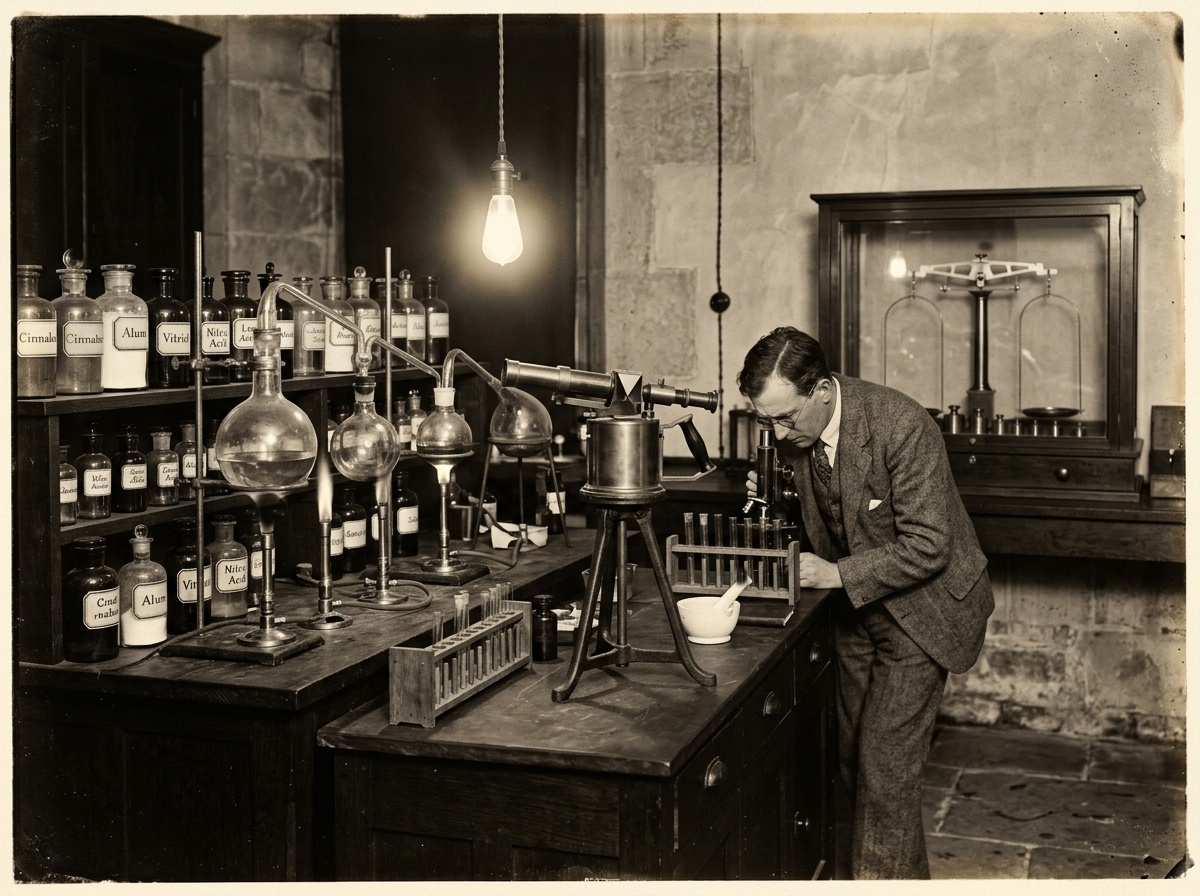
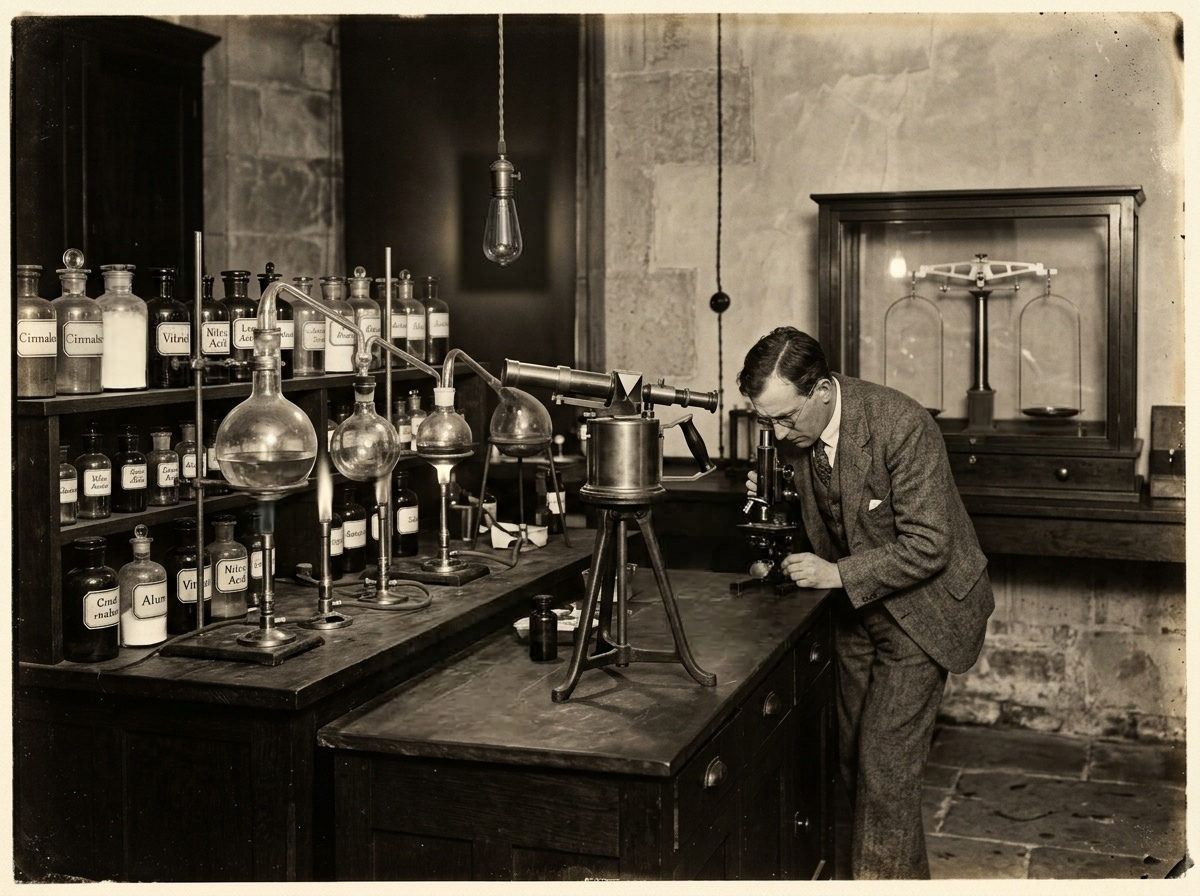
feat(level3): AAA physical sabotage in the Archeometry Laboratory, full lore integration

diff --git a/src/data/levelRegistry.ts b/src/data/levelRegistry.ts
@@ -161,7 +161,7 @@ export function generateAll120Levels(): Level[] {
     const imageA = isLevelTwo
       ? '/stage2_crypt_A.jpg?v=8'
       : isLevelThree
-      ? '/levels/stage1_lvl3_A.jpg'
+      ? '/levels/stage1_lvl3_A.jpg?v=2'
       : isLevelFour
       ? '/levels/stage1_lvl4_A.jpg'
       : isLevelFive
@@ -444,7 +444,7 @@ export function generateAll120Levels(): Level[] {
     const imageB = isLevelTwo
       ? '/stage2_crypt_B.jpg?v=8'
       : isLevelThree
-      ? '/levels/stage1_lvl3_B.jpg'
+      ? '/levels/stage1_lvl3_B.jpg?v=2'
       : isLevelFour
       ? '/levels/stage1_lvl4_B.jpg'
       : isLevelFive
@@ -843,16 +843,60 @@ export function generateAll120Levels(): Level[] {
       ];
     } else if (isLevelThree) {
       diffsForLevel = [
-        { id: `lvl${id}_d1`, x: 43.67, y: 19.64, radius: 4.0, name: "La Chiavetta d'Accensione della Lampada", loreClue: "La chiavetta a farfalla in ottone per regolare il gas e la corrente è stata rimossa dal portalampada sospeso." },
-        { id: `lvl${id}_d2`, x: 82.08, y: 27.46, radius: 4.0, name: "La Vite a Farfalla della Bilancia di Precisione", loreClue: "La vite micrometrica che equilibra il giogo d'argento della bilancia chimica è scomparsa dall'apice della teca." },
-        { id: `lvl${id}_d3`, x: 6.75, y: 28.12, radius: 4.0, name: "Il Terminale Sferico della Boccetta di Reattivo", loreClue: "Il pomo sferico di vetro del tappo smerigliato del flacone di cinabro alchemico è stato asportato." },
-        { id: `lvl${id}_d4`, x: 46.67, y: 44.42, radius: 4.0, name: "La Vite di Messa a Fuoco dello Spettroscopio", loreClue: "La rotella d'ottone zigrinata per la regolazione del prisma ottico dello spettroscopio da banco non è più al suo posto." },
-        { id: `lvl${id}_d5`, x: 22.33, y: 56.70, radius: 4.5, name: "La Fiamma del Becco Bunsen sotto l'Alambicco", loreClue: "Il rubinetto del gas è stato chiuso: la fiamma ossidrica sotto il matraccio di distillazione si è spenta improvvisamente." },
-        { id: `lvl${id}_d6`, x: 81.17, y: 52.57, radius: 3.5, name: "Il Pomello in Ottone del Cassetto della Teca", loreClue: "Uno dei due tiranti sferici in ottone del cassetto per i pesi milligrammetrici della bilancia è stato svitato." },
-        { id: `lvl${id}_d7`, x: 72.67, y: 66.29, radius: 3.5, name: "Il Bottone in Corno sul Polsino in Tweed", loreClue: "Il bottone sartoriale in corno bruno sulla manica della giacca del ricercatore si è staccato durante l'analisi." },
-        { id: `lvl${id}_d8`, x: 61.67, y: 64.29, radius: 4.0, name: "L'Impugnatura del Pestello nel Mortaio", loreClue: "Il collare sagomato in porcellana dell'impugnatura del pestello da polverizzazione minerale è stato limato via." },
-        { id: `lvl${id}_d9`, x: 34.17, y: 76.56, radius: 4.0, name: "L'Incastro a Mortasa del Portaprovette", loreClue: "La mortasa a intaglio nel montante di massello di quercia del rastrello portaprovette appare piallata e priva di foro." },
-        { id: `lvl${id}_d10`, x: 12.83, y: 74.67, radius: 3.5, name: "L'Attrezzo Metallico sul Ripiano Inferiore", loreClue: "La spatola di platino per il campionamento delle polveri di cinabro è stata rimossa dal ripiano dello scaffale dei reattivi." },
+        {
+          id: `lvl${id}_d1`,
+          x: 41.89,
+          y: 25.47,
+          radius: 9.5,
+          clueType: 'sabotage',
+          name: "La Lampadina a Filamento dal Soffitto",
+          loreClue: "La lampada a sospensione sopra il banco di lavoro è stata spenta per impedire l'osservazione delle luminescenze chimiche sulla pergamena."
+        },
+        {
+          id: `lvl${id}_d2`,
+          x: 60.77,
+          y: 64.90,
+          radius: 11.5,
+          clueType: 'stolen_relic',
+          name: "Il Mortaio e i Campioni dell'Archeometra",
+          loreClue: "Il mortaio in porcellana bianca e le provette dei campioni di cinabro peruviano sono stati asportati dal banco sotto gli occhi dello studioso."
+        },
+        {
+          id: `lvl${id}_d3`,
+          x: 38.42,
+          y: 73.66,
+          radius: 10.0,
+          clueType: 'stolen_relic',
+          name: "Il Grande Rastrello Portaprovette",
+          loreClue: "Il massiccio rastrello in quercia con le provette graduate dei reagenti alchemici è stato trafugato dal banco in primo piano per distruggere le prove."
+        },
+        {
+          id: `lvl${id}_d4`,
+          x: 82.73,
+          y: 47.20,
+          radius: 9.0,
+          clueType: 'stolen_relic',
+          name: "La Serie di Pesi Milligrammetrici d'Ottone",
+          loreClue: "La serie di cilindri micrometrici in ottone della bilancia analitica è stata sottratta: serviva a dosare le polveri alchemiche con precisione assoluta."
+        },
+        {
+          id: `lvl${id}_d5`,
+          x: 22.19,
+          y: 56.46,
+          radius: 7.5,
+          clueType: 'sabotage',
+          name: "La Fiamma del Becco Bunsen sotto il Matraccio",
+          loreClue: "Il rubinetto del gas del becco Bunsen è stato chiuso con violenza: la fiamma che riscaldava il solvente sotto il matraccio è stata spenta."
+        },
+        {
+          id: `lvl${id}_d6`,
+          x: 12.56,
+          y: 36.30,
+          radius: 9.0,
+          clueType: 'stolen_relic',
+          name: "Il Flacone di Reagente 'Alum' sullo Scaffale",
+          loreClue: "Il prezioso barattolo di allume di rocca è stato svuotato e trafugato: è il mordenzante chimico fondamentale per far reagire l'inchiostro simpatico della mappa."
+        },
       ];
     } else if (isLevelFour) {
       diffsForLevel = [

diff --git a/src/data/levelNarratives.ts b/src/data/levelNarratives.ts
@@ -27,9 +27,9 @@ export const LEVEL_NARRATIVES_120: Record<number, LevelStoryData> = {
   3: {
     title: "Il Laboratorio di Archeometria",
     subtitle: "Analisi Spettrografica • Ashmolean Museum",
-    prologue: "Sottoponi la pergamena alla lampada di Wood per rivelare i tracciati in inchiostro simpatico a base di cinabro e allume.",
-    resolution: "Sotto la scrittura latina compare una rotta nautica cifrata: le coordinate non partono dall'Atlantico, ma dai sotterranei di Parigi!",
-    unlockedSecret: "'L'inchiostro è una miscela di cinabro peruviano e resina d'acacia. Chi ha vergato questa mappa conosceva la chimica alchemica veneziana.' - Note di laboratorio",
+    prologue: "Nei laboratori dell'Ashmolean Museum, l'assistente di Bellini stava decifrando l'inchiostro simpatico della mappa andina. La Mano Oscura ha fatto irruzione per sabotare l'analisi chimica e trafugare i composti prima che la rotta verso Parigi venisse svelata. Trova le 6 tracce fisiche del sabotaggio.",
+    resolution: "Hai neutralizzato il sabotaggio del laboratorio: la reazione al cinabro ha rivelato il tracciato segreto! Le coordinate templari non partono dall'Atlantico, ma dai sotterranei di Parigi verso cui Bellini sta fuggendo.",
+    unlockedSecret: "'L'inchiostro simpatico è a base di cinabro peruviano e allume di rocca. Chi ha vergato questa mappa conosceva sia la metallurgia inca che l'alchimia veneziana.' - Note di laboratorio di Bellini",
   },
   4: {
     title: "La Cripta di St. Peter-in-the-East",
